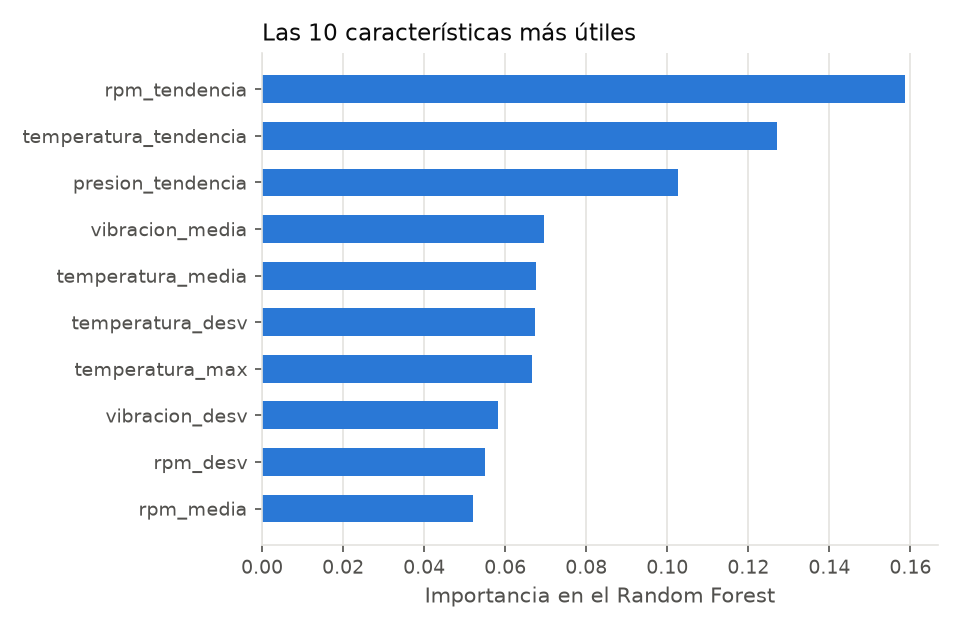
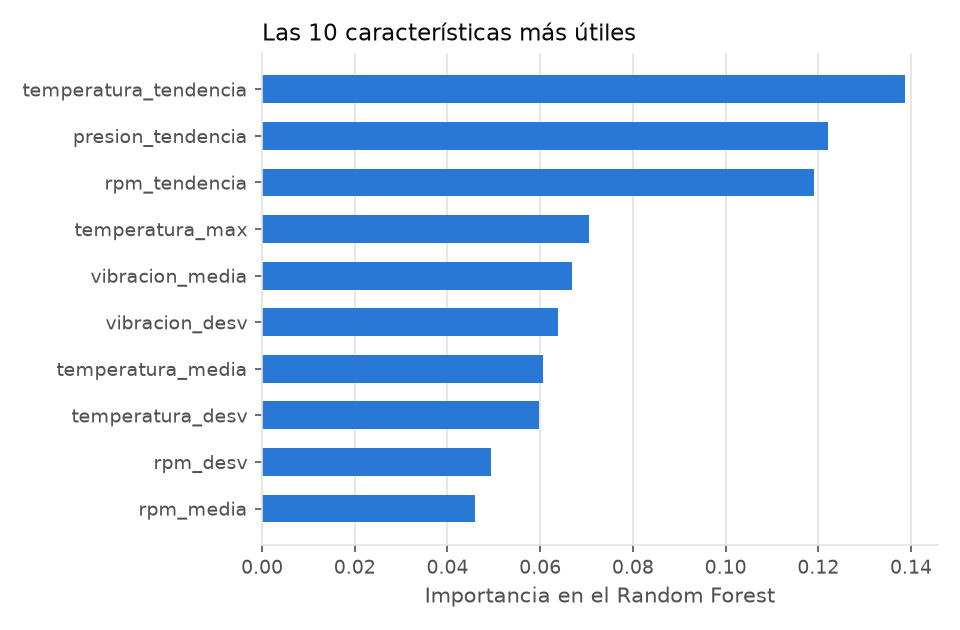
entrenar: medir la anticipación solo en el tramo de degradación previo
- Una alerta en la misma ventana en que empieza la falla (0 s) ya no
  cuenta como aviso anticipado.
- Si una máquina falla dos veces seguidas, la alerta del primer evento
  ya no se atribuye al segundo (daba avisos de 150 s, imposibles con una
  degradación de ~60 s).
- metricas.json guarda la distribución (anticipacion_por_falla).
- Resultados regenerados desde volúmenes limpios con --semilla 42.
- README: números nuevos, anticipación en múltiplos de 30 s, paridad
  como diferencia absoluta (1230 ventanas, máx. 1e-7) y nota sobre
  ml/resultados/ sobrescrito al reentrenar.

Reportado en la revisión del PR.

Claude-Session: https://claude.ai/code/session_01T9Wjfyuygs8WmQzpRRBxHr

diff --git a/ml/entrenar.py b/ml/entrenar.py
@@ -64,19 +64,30 @@ def cargar_ventanas():
 
 
 def anticipacion(test, alerta):
-    """Segundos entre la primera alerta y el inicio de cada falla en el test."""
+    """Segundos entre la primera alerta y el inicio de cada falla en el test.
+
+    Solo cuenta la alerta dentro del tramo de degradación inmediatamente
+    anterior a la falla. Así, si una máquina falla dos veces seguidas, la
+    alerta de la primera no se atribuye a la segunda. Devuelve un valor por
+    falla: None si no hubo alerta, 0 si la alerta llegó recién en la ventana
+    en que empieza la falla. Como se mide por ventanas, los valores son
+    múltiplos de 30 s.
+    """
     resultados = []
     datos = test.assign(alerta=alerta).sort_values(["maquina_id", "inicio"])
     for _, maquina in datos.groupby("maquina_id"):
         primera_alerta, anterior = None, "normal"
         for fila in maquina.itertuples():
-            if fila.estado_mayoritario == "normal":
-                primera_alerta = None
-            elif fila.alerta and primera_alerta is None:
-                primera_alerta = fila.inicio
             if fila.estado_mayoritario == "falla" and anterior != "falla":
-                aviso = (fila.inicio - primera_alerta).total_seconds() if primera_alerta is not None else None
-                resultados.append(aviso)
+                if primera_alerta is not None:
+                    resultados.append((fila.inicio - primera_alerta).total_seconds())
+                else:
+                    resultados.append(0.0 if fila.alerta else None)
+            if fila.estado_mayoritario == "degradacion":
+                if fila.alerta and primera_alerta is None:
+                    primera_alerta = fila.inicio
+            else:
+                primera_alerta = None  # termina el tramo de degradación
             anterior = fila.estado_mayoritario
     return resultados
 
@@ -194,12 +205,17 @@ def main():
 
     hay_problema = (test.estado_mayoritario != "normal").to_numpy()
     avisos = anticipacion(test, alerta)
-    detectadas = [a for a in avisos if a is not None]
+    # Solo cuenta como aviso anticipado si la alerta llegó en una ventana
+    # anterior a la falla (más de 0 s antes).
+    detectadas = [a for a in avisos if a is not None and a > 0]
+    distribucion = {("sin alerta" if a is None else f"{a:.0f} s"): avisos.count(a) for a in sorted(
+        set(avisos), key=lambda v: -1 if v is None else v)}
     print(f"Alertas (riesgo >= {UMBRAL_RIESGO:.0%}): detectan {alerta[hay_problema].mean():.1%} de las "
           f"ventanas con problema; falsas alarmas en {alerta[~hay_problema].mean():.1%} de las normales")
     if avisos:
         print(f"Fallas en la prueba: {len(avisos)}; avisadas antes de empezar: {len(detectadas)}; "
               f"anticipación promedio: {np.mean(detectadas) if detectadas else 0:.0f} s")
+        print(f"Anticipación por falla (múltiplos de la ventana de 30 s): {distribucion}")
 
     # 2. Detector de anomalías: solo ve ventanas normales
     detector = IsolationForest(n_estimators=200, contamination=0.02, random_state=42)
@@ -237,6 +253,7 @@ def main():
             "fallas_en_prueba": len(avisos),
             "fallas_avisadas_antes": len(detectadas),
             "anticipacion_promedio_segundos": round(float(np.mean(detectadas)), 1) if detectadas else None,
+            "anticipacion_por_falla": distribucion,
         },
         "detector_anomalias": {"proporcion_marcada_por_estado": {k: round(v, 3) for k, v in tasa_anomalias.items()}},
         "importancia_caracteristicas": dict(sorted(

diff --git a/ml/README.md b/ml/README.md
@@ -43,23 +43,28 @@ docker compose run --rm sensores python generar_historico.py --horas 2 --semilla
 
 ## Resultados
 
-Con 2 horas de historia (1225 ventanas; 915 para entrenar y 310 para evaluar):
+Con 2 horas de historia generadas con `--semilla 42` desde volúmenes vacíos (1228 ventanas; 920 para entrenar y 308 para evaluar). Siguiendo los pasos de [Cómo ejecutarlo](#cómo-ejecutarlo) se obtienen números muy parecidos. No son idénticos porque las lecturas en vivo que se mezclan con la historia no usan la semilla.
 
 | Clasificador | Precisión | Recall | Ventanas de prueba |
 |---|---|---|---|
-| normal | 99.5 % | 97.2 % | 215 |
-| degradación | 95.9 % | 98.6 % | 71 |
-| falla | 85.2 % | 95.8 % | 24 |
-| **Exactitud total** | | **97.4 %** | 310 |
+| normal | 99.0 % | 98.6 % | 208 |
+| degradación | 98.6 % | 97.3 % | 75 |
+| falla | 92.6 % | 100 % | 25 |
+| **Exactitud total** | | **98.4 %** | 308 |
 
 - **Precisión**: de las veces que dijo "falla", cuántas eran falla.
 - **Recall**: de las fallas reales, cuántas detectó.
 
 **Alertas** (riesgo ≥ 50 %):
-- Detectan el **98.9 %** de las ventanas con problema, con falsas alarmas en el **2.8 %** de las normales.
-- **Las 24 fallas de la prueba se avisaron antes de empezar**, con **65 s de anticipación promedio**.
+- Detectan el **98 %** de las ventanas con problema, con falsas alarmas en el **1.9 %** de las normales.
+- **Las 25 fallas de la prueba se avisaron antes de empezar**, con **56 s de anticipación promedio**: 22 fallas con 60 s y 3 con 30 s.
 
-**Detector de anomalías**: marca como anomalía el **5.6 %** de las ventanas normales, el **56 %** de las de degradación y el **100 %** de las de falla. Sin haber visto nunca una falla, las reconoce todas. La degradación temprana le cuesta más, porque al principio se parece mucho a lo normal.
+¿Cómo se mide la anticipación? Por cada falla, se cuenta el tiempo entre la **primera alerta del tramo de degradación inmediatamente anterior** y el inicio de la falla.
+- Como se mide por ventanas, el resultado es **múltiplo de 30 s**: "56 s" quiere decir "unas 2 ventanas antes", no una precisión al segundo.
+- Una alerta que llega recién en la ventana en que empieza la falla cuenta como **0 s**, es decir, **no** como aviso anticipado.
+- Si una máquina falla dos veces seguidas, la alerta de la primera falla no se atribuye a la segunda.
+
+**Detector de anomalías**: marca como anomalía el **3.8 %** de las ventanas normales, el **63 %** de las de degradación y el **100 %** de las de falla. Sin haber visto nunca una falla, las reconoce todas. La degradación temprana le cuesta más, porque al principio se parece mucho a lo normal.
 
 **En vivo** (10 minutos, 625 predicciones): el estado predicho coincidió con el real en el **98.6 %**. Hubo alerta en el 97 % de las degradaciones y en el 100 % de las fallas, y solo en el 0.6 % de los momentos normales.
 
@@ -79,7 +84,7 @@ Todas las métricas están en `resultados/metricas.json`.
 
 `predictor.py`:
 1. Lee las lecturas de Kafka a medida que llegan y guarda **los últimos 30 s de cada máquina**.
-2. Cada **5 s** calcula las mismas 20 características que Spark, con `caracteristicas.py`. Se verificó con 200 ventanas que dan los mismos valores (diferencia < 0.001 %).
+2. Cada **5 s** calcula las mismas 20 características que Spark, con `caracteristicas.py`. Lo verificamos recalculando **las 1230 ventanas** de Spark desde las lecturas limpias: coinciden todos los conteos y la diferencia absoluta máxima es **1e-7**, que es ruido de coma flotante.
 3. Aplica los dos modelos y escribe en InfluxDB, measurement **`predicciones`**:
 
 | Campo | Qué es |
@@ -120,6 +125,8 @@ docker compose exec influxdb influx query --org grupo5 --token token-demo-grupo5
 ```
 
 Para reentrenar con más datos se repiten los pasos 3 y 4, y después `docker compose restart predictor`.
+
+> **Ojo al reentrenar:** `entrenar` sobrescribe `ml/resultados/` (`metricas.json` y las 3 imágenes), que están en el repositorio como resultado de referencia. Si no se quiere guardar la nueva corrida, se descarta con `git checkout -- ml/resultados/`.
 
 ### Correrlo local con uv
 
